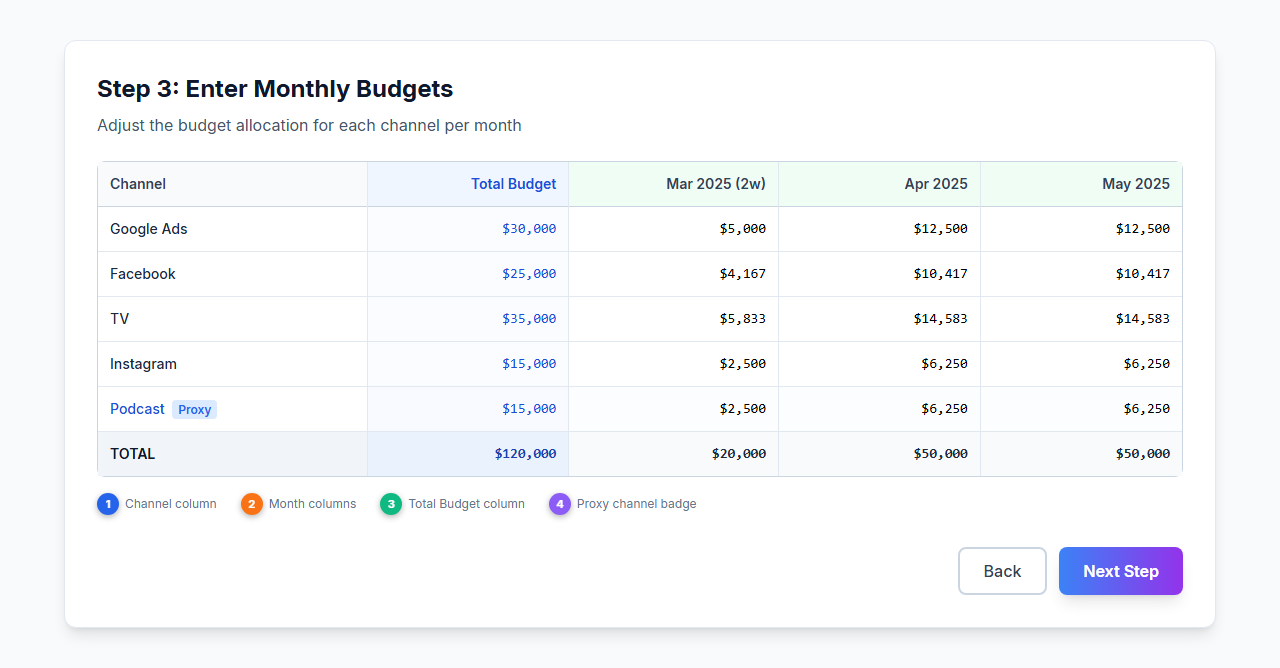
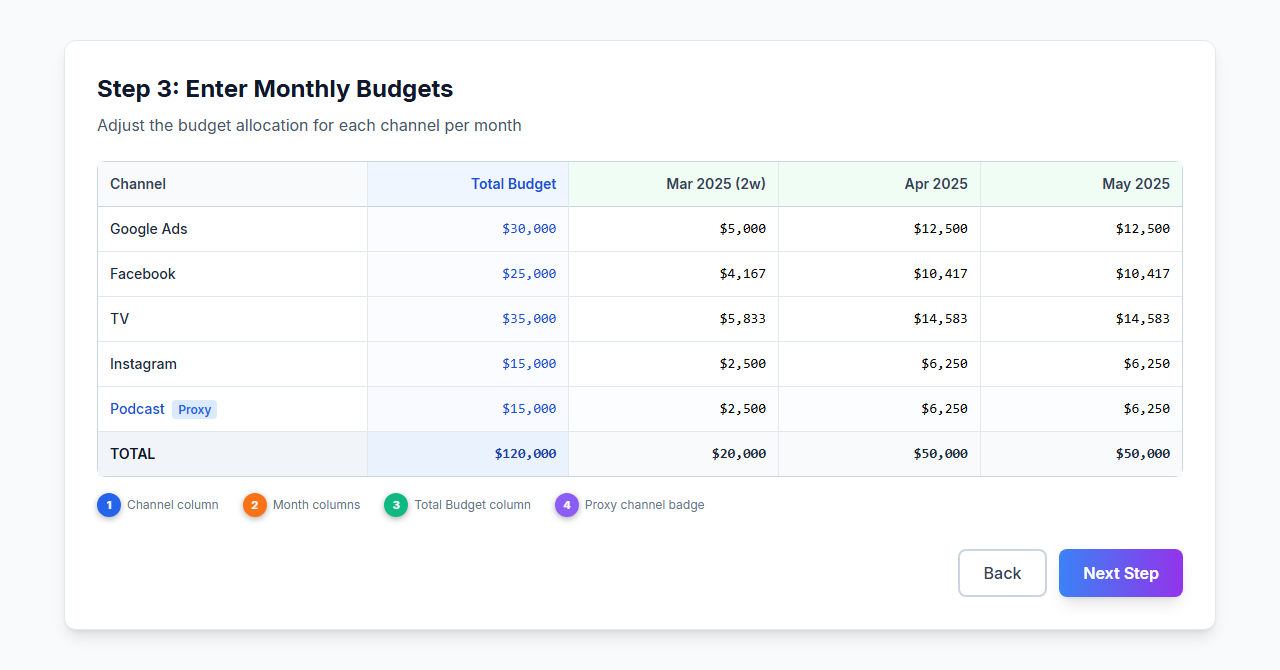
docs: enforce 8pt grid system for all annotation positions
- All annotation positions now snap to multiples of 8px (8, 16, 24, 32, 40, 48, etc.)
- Inline legend annotation circles sized to 24px (was 22px)
- Added 8pt grid rule to CLAUDE.md annotation positioning guidelines
- Re-captured all 14 screenshots with consistent grid-aligned positions
- All screenshots verified: no text overlap, no clipping, ≥1000px width

diff --git a/docs/platform-guide/mockups/scenario-planning-mockup.html b/docs/platform-guide/mockups/scenario-planning-mockup.html
@@ -34,7 +34,7 @@ section { margin: 40px auto; max-width: 1280px; padding: 40px 40px; position: re
       </div>
       <h1 class="text-4xl font-bold text-slate-900 mb-3">Plan Your Marketing Future</h1>
       <p class="text-lg text-slate-600 max-w-2xl mx-auto">Choose your planning approach and predict the impact of your marketing investments with confidence</p>
-      <div class="anno anno-blue" style="top:0px;right:100px;">1</div>
+      <div class="anno anno-blue" style="top:8px;right:96px;">1</div>
     </div>
 
     <!-- Cards Grid -->
@@ -62,8 +62,8 @@ section { margin: 40px auto; max-width: 1280px; padding: 40px 40px; position: re
           <button class="w-full py-2.5 px-4 rounded-lg bg-gradient-to-r from-blue-500 to-purple-600 text-white font-semibold shadow-lg">Start Monthly Planning</button>
           <div class="absolute bottom-0 left-0 right-0 h-1 bg-gradient-to-r from-blue-500 to-purple-600 rounded-b-lg"></div>
         </div>
-        <div class="anno anno-blue" style="top:80px;right:20px;">2</div>
-        <div class="anno anno-green" style="top:20px;right:190px;">3</div>
+        <div class="anno anno-blue" style="top:80px;right:16px;">2</div>
+        <div class="anno anno-green" style="top:16px;right:192px;">3</div>
       </div>
 
       <!-- Advanced Planner Card -->
@@ -87,7 +87,7 @@ section { margin: 40px auto; max-width: 1280px; padding: 40px 40px; position: re
           </ul>
           <button class="w-full py-2.5 px-4 rounded-lg bg-gradient-to-r from-blue-500 to-purple-600 text-white font-semibold shadow-lg">Start Advanced Planning</button>
         </div>
-        <div class="anno anno-purple" style="top:80px;right:20px;">4</div>
+        <div class="anno anno-purple" style="top:80px;right:16px;">4</div>
       </div>
     </div>
 
@@ -123,7 +123,7 @@ section { margin: 40px auto; max-width: 1280px; padding: 40px 40px; position: re
       <span class="px-2 py-0.5 rounded bg-amber-100 text-amber-700 text-xs font-semibold">Partial Month</span>
       <span class="text-sm text-slate-600">Mar 2025 starts mid-month (2w)</span>
     </div>
-    <div class="anno anno-blue" style="top:12px;right:12px;">1</div>
+    <div class="anno anno-blue" style="top:16px;right:16px;">1</div>
   </div>
 
   <!-- Budget Input -->
@@ -133,7 +133,7 @@ section { margin: 40px auto; max-width: 1280px; padding: 40px 40px; position: re
       <span class="absolute left-4 top-1/2 -translate-y-1/2 text-slate-500 font-semibold">$</span>
       <input type="text" value="120,000" class="w-full pl-8 pr-4 py-3 border-2 border-slate-300 rounded-lg text-lg font-semibold focus:border-blue-500 focus:outline-none" />
     </div>
-    <div class="anno anno-orange" style="top:0px;right:50px;">2</div>
+    <div class="anno anno-orange" style="top:8px;right:48px;">2</div>
   </div>
 
   <!-- Info Box -->
@@ -222,10 +222,10 @@ section { margin: 40px auto; max-width: 1280px; padding: 40px 40px; position: re
 
   <!-- Annotations in whitespace below table, with arrows pointing up -->
   <div class="flex items-center gap-6 mt-4 text-xs text-slate-500">
-    <div class="flex items-center gap-1.5"><div class="anno anno-blue" style="position:static;width:22px;height:22px;font-size:11px;">1</div><span>Channel column</span></div>
-    <div class="flex items-center gap-1.5"><div class="anno anno-orange" style="position:static;width:22px;height:22px;font-size:11px;">2</div><span>Month columns</span></div>
-    <div class="flex items-center gap-1.5"><div class="anno anno-green" style="position:static;width:22px;height:22px;font-size:11px;">3</div><span>Total Budget column</span></div>
-    <div class="flex items-center gap-1.5"><div class="anno anno-purple" style="position:static;width:22px;height:22px;font-size:11px;">4</div><span>Proxy channel badge</span></div>
+    <div class="flex items-center gap-1.5"><div class="anno anno-blue" style="position:static;width:24px;height:24px;font-size:11px;">1</div><span>Channel column</span></div>
+    <div class="flex items-center gap-1.5"><div class="anno anno-orange" style="position:static;width:24px;height:24px;font-size:11px;">2</div><span>Month columns</span></div>
+    <div class="flex items-center gap-1.5"><div class="anno anno-green" style="position:static;width:24px;height:24px;font-size:11px;">3</div><span>Total Budget column</span></div>
+    <div class="flex items-center gap-1.5"><div class="anno anno-purple" style="position:static;width:24px;height:24px;font-size:11px;">4</div><span>Proxy channel badge</span></div>
   </div>
 
   <div class="flex justify-end gap-3 mt-8">
@@ -252,7 +252,7 @@ section { margin: 40px auto; max-width: 1280px; padding: 40px 40px; position: re
       </div>
       <p class="text-sm text-slate-600">Even split across all weeks in each month</p>
       <div class="absolute top-2 right-2 w-5 h-5 rounded-full bg-blue-500 flex items-center justify-center"><i data-lucide="check" class="w-3 h-3 text-white"></i></div>
-      <div class="anno anno-blue" style="bottom:12px;right:12px;">1</div>
+      <div class="anno anno-blue" style="bottom:16px;right:16px;">1</div>
     </div>
     <!-- Business-Week -->
     <div class="border-2 border-slate-200 rounded-xl p-5 cursor-pointer hover:border-slate-400">
@@ -332,7 +332,7 @@ section { margin: 40px auto; max-width: 1280px; padding: 40px 40px; position: re
         <div class="text-xs text-slate-500">↓ Revenue</div>
       </div>
     </div>
-    <div class="anno anno-blue" style="top:14px;right:14px;">1</div>
+    <div class="anno anno-blue" style="top:16px;right:16px;">1</div>
   </div>
 
   <!-- Distribution Category -->
@@ -350,7 +350,7 @@ section { margin: 40px auto; max-width: 1280px; padding: 40px 40px; position: re
         <div class="text-xs text-slate-500">— Baseline</div>
       </div>
     </div>
-    <div class="anno anno-orange" style="top:14px;right:14px;">2</div>
+    <div class="anno anno-orange" style="top:16px;right:16px;">2</div>
   </div>
 
   <!-- Automatic Category -->
@@ -361,7 +361,7 @@ section { margin: 40px auto; max-width: 1280px; padding: 40px 40px; position: re
       <span class="text-xs bg-slate-100 text-slate-600 px-2 py-0.5 rounded-full font-medium">Auto-projected</span>
     </div>
     <div class="p-4 text-sm text-slate-500 italic">Trend and seasonality variables are projected forward automatically based on historical patterns.</div>
-    <div class="anno anno-green" style="top:14px;right:14px;">3</div>
+    <div class="anno anno-green" style="top:16px;right:16px;">3</div>
   </div>
 
   <div class="flex justify-between mt-8">
@@ -401,7 +401,7 @@ section { margin: 40px auto; max-width: 1280px; padding: 40px 40px; position: re
         </tr>
       </tbody>
     </table>
-    <div class="anno anno-blue" style="top:14px;right:14px;">1</div>
+    <div class="anno anno-blue" style="top:16px;right:16px;">1</div>
   </div>
 
   <div class="bg-blue-50 border border-blue-200 rounded-lg p-4 mt-4 flex items-start gap-3">
@@ -436,7 +436,7 @@ section { margin: 40px auto; max-width: 1280px; padding: 40px 40px; position: re
       <button class="flex items-center gap-2 px-4 py-2 rounded-lg border border-slate-300 text-slate-700 text-sm font-medium hover:bg-slate-50"><i data-lucide="download" class="w-4 h-4"></i> Download Template</button>
       <button class="flex items-center gap-2 px-4 py-2 rounded-lg border border-slate-300 text-slate-700 text-sm font-medium hover:bg-slate-50"><i data-lucide="upload" class="w-4 h-4"></i> Upload Template</button>
       <button class="flex items-center gap-2 px-5 py-2 rounded-lg bg-gradient-to-r from-blue-500 to-purple-600 text-white text-sm font-semibold shadow-lg"><i data-lucide="play" class="w-4 h-4"></i> Predict Results</button>
-      <div class="anno anno-orange" style="top:50px;right:20px;">2</div>
+      <div class="anno anno-orange" style="top:48px;right:16px;">2</div>
     </div>
   </div>
 
@@ -449,7 +449,7 @@ section { margin: 40px auto; max-width: 1280px; padding: 40px 40px; position: re
     <span class="text-slate-600">Periodicity: <span class="font-semibold text-slate-800">Weekly</span></span>
     <div class="h-4 w-px bg-slate-300"></div>
     <span class="text-slate-600">Planning periods: <span class="font-semibold text-slate-800">12 weeks</span></span>
-    <div class="anno anno-blue" style="top:14px;right:14px;">1</div>
+    <div class="anno anno-blue" style="top:16px;right:16px;">1</div>
   </div>
 
   <!-- Grid -->
@@ -480,7 +480,7 @@ section { margin: 40px auto; max-width: 1280px; padding: 40px 40px; position: re
     <div class="flex items-center gap-2"><div class="w-3 h-3 bg-yellow-50 border border-yellow-300 rounded italic"></div>Control variables (editable)</div>
     <div class="flex items-center gap-2"><div class="w-3 h-3 bg-blue-50 border border-blue-300 rounded"></div>Proxy channels (editable)</div>
   </div>
-  <div class="anno anno-green" style="bottom:14px;right:14px;">3</div>
+  <div class="anno anno-green" style="bottom:16px;right:16px;">3</div>
 </div>
 </section>
 
@@ -497,7 +497,7 @@ section { margin: 40px auto; max-width: 1280px; padding: 40px 40px; position: re
       <div class="text-4xl font-bold tabular-nums">$120,000</div>
       <p class="text-sm opacity-90 mt-2">12 weeks planned</p>
       <p class="text-xs opacity-75 mt-1">Excludes halo and trademark spend</p>
-      <div class="anno anno-blue" style="top:14px;right:14px;">1</div>
+      <div class="anno anno-blue" style="top:16px;right:16px;">1</div>
     </div>
     <!-- Predicted Return -->
     <div class="bg-gradient-to-br from-green-500 to-green-600 text-white rounded-lg shadow-lg p-6" style="position:relative;">
@@ -505,7 +505,7 @@ section { margin: 40px auto; max-width: 1280px; padding: 40px 40px; position: re
       <div class="text-lg font-semibold opacity-95 mb-1">Predicted Return</div>
       <div class="text-4xl font-bold tabular-nums">$456,200</div>
       <p class="text-sm opacity-90 mt-2">Avg: $38,017/week</p>
-      <div class="anno anno-green" style="top:14px;right:14px;">2</div>
+      <div class="anno anno-green" style="top:16px;right:16px;">2</div>
     </div>
     <!-- Portfolio ROAS -->
     <div class="bg-gradient-to-br from-purple-500 to-purple-600 text-white rounded-lg shadow-lg p-6" style="position:relative;">
@@ -513,7 +513,7 @@ section { margin: 40px auto; max-width: 1280px; padding: 40px 40px; position: re
       <div class="text-lg font-semibold opacity-95 mb-1">Portfolio ROAS</div>
       <div class="text-4xl font-bold tabular-nums">3.80x</div>
       <p class="text-sm font-semibold mt-2 text-green-300">✅ Excellent</p>
-      <div class="anno anno-purple" style="top:14px;right:14px;">3</div>
+      <div class="anno anno-purple" style="top:16px;right:16px;">3</div>
     </div>
   </div>
 </div>
@@ -551,8 +551,8 @@ section { margin: 40px auto; max-width: 1280px; padding: 40px 40px; position: re
       <div class="flex items-center gap-2"><div class="w-4 h-3 rounded-sm" style="background:linear-gradient(180deg,rgba(99,102,241,0.25) 0%,rgba(99,102,241,0.08) 100%)"></div><span class="text-sm text-slate-600">95% CI</span></div>
     </div>
     <canvas id="forecastChart" height="200"></canvas>
-    <div class="anno anno-blue" style="top:15px;right:15px;">1</div>
-    <div class="anno anno-orange" style="top:15px;right:280px;">2</div>
+    <div class="anno anno-blue" style="top:16px;right:16px;">1</div>
+    <div class="anno anno-orange" style="top:16px;right:280px;">2</div>
   </div>
   <div class="p-4 mx-6 mb-6 bg-blue-50 border border-blue-200 rounded-lg">
     <p class="text-sm text-blue-800">The chart shows actual sales (cyan) and predicted sales (purple). The shaded area represents the 94% HDI. The forecast period begins after the last actual data point.</p>
@@ -636,7 +636,7 @@ section { margin: 40px auto; max-width: 1280px; padding: 40px 40px; position: re
           <div class="flex justify-between"><span class="text-slate-500">ROAS</span><span class="font-mono font-semibold text-green-600">5.2x</span></div>
           <div class="flex justify-between"><span class="text-slate-500">Revenue</span><span class="font-mono font-semibold">$156,000</span></div>
         </div>
-        <div class="anno anno-blue" style="top:14px;right:14px;">1</div>
+        <div class="anno anno-blue" style="top:16px;right:16px;">1</div>
       </div>
       <!-- Silver -->
       <div class="bg-white rounded-lg p-4 border border-green-200 shadow">
@@ -679,7 +679,7 @@ section { margin: 40px auto; max-width: 1280px; padding: 40px 40px; position: re
         <div class="text-2xl font-bold text-green-300">+12.4%</div>
       </div>
     </div>
-    <div class="anno anno-blue" style="top:14px;right:14px;">2</div>
+    <div class="anno anno-blue" style="top:16px;right:16px;">2</div>
   </div>
 </div>
 </section>
